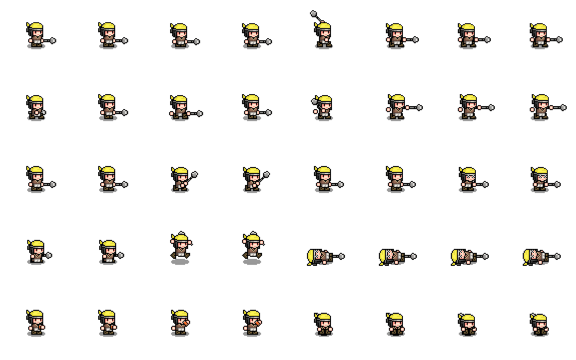
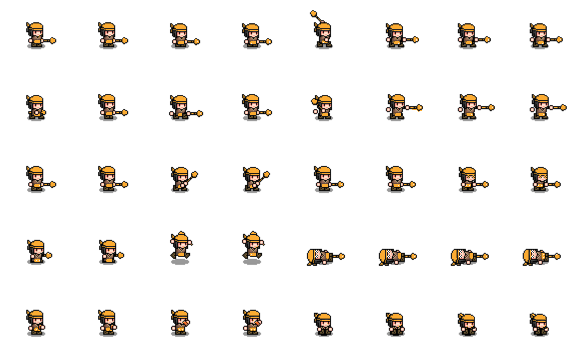
multiple soldier and farmer faces

diff --git a/src/scenes/TacticsScene.js b/src/scenes/TacticsScene.js
@@ -106,6 +106,120 @@ export class TacticsScene extends BaseScene {
         return null;
     }
 
+    _debugSkipCompleteCutscene() {
+        const battleDef = BATTLES[this.battleId];
+        if (battleDef && battleDef.nextScene) {
+            if (this.battleId === 'yellow_turban_rout') {
+                this.manager.switchTo('narrative', {
+                    scriptId: 'noticeboard',
+                    onComplete: () => {
+                        this.manager.switchTo('narrative', {
+                            scriptId: 'inn',
+                            onComplete: () => {
+                                this.manager.gameState.addMilestone('prologue_complete');
+                                this.manager.switchTo('map');
+                            }
+                        });
+                    }
+                });
+                return true;
+            }
+
+            if (!this.isCustom) {
+                const gs = this.manager.gameState;
+                gs.addMilestone(this.battleId);
+                gs.setStoryCursor(this.battleId);
+            }
+            this.manager.switchTo(battleDef.nextScene, battleDef.nextParams);
+            return true;
+        }
+
+        if (!this.isGameOver) this.endBattle(true);
+        return true;
+    }
+
+    debugFastSkip() {
+        if (this.isGameOver) return true;
+
+        const canShowBattleChoice = !!(
+            this.hasChoice
+            && (this.onChoiceRestrain || this.onChoiceFight || this.battleId === 'guangzong_encounter'
+                || (Array.isArray(this.battleDef?.choiceOptions) && this.battleDef.choiceOptions.length > 0))
+        );
+
+        if (this.isChoiceActive) return true;
+
+        const activeScript = this.getActiveDialogueScript();
+        if (activeScript && this.dialogueStep < activeScript.length) {
+            for (let i = this.dialogueStep; i < activeScript.length; i++) {
+                const step = activeScript[i];
+                if (step && step.type === 'choice' && Array.isArray(step.options) && step.options.length > 0) {
+                    this.dialogueStep = i;
+                    this.subStep = 0;
+                    this.dialogueElapsed = 9999;
+                    this.isChoiceActive = true;
+                    return true;
+                }
+            }
+        }
+
+        if (this.isIntroDialogueActive || this.isVictoryDialogueActive) {
+            if (this.isIntroDialogueActive) {
+                this.isIntroDialogueActive = false;
+                this.dialogueStep = 0;
+                this.subStep = 0;
+                this.dialogueElapsed = 0;
+
+                if (canShowBattleChoice) {
+                    this.isChoiceActive = true;
+                    return true;
+                }
+                if (this.isCutscene) {
+                    return this._debugSkipCompleteCutscene();
+                }
+                this.startNpcPhase();
+                return true;
+            }
+
+            this.isVictoryDialogueActive = false;
+            this.isChoiceActive = false;
+            if (this.victoryOnComplete) this.victoryOnComplete();
+            return true;
+        }
+
+        if (this.isCleanupDialogueActive) {
+            this.isCleanupDialogueActive = false;
+            this.cleanupDialogueStep = this.cleanupDialogueScript ? this.cleanupDialogueScript.length : 0;
+            if (this.cleanupDialogueOnComplete) {
+                this.cleanupDialogueOnComplete();
+                this.cleanupDialogueOnComplete = null;
+            } else {
+                this.manager.gameState.addMilestone('qingzhou_cleanup');
+                this.manager.gameState.setStoryCursor('qingzhou_cleanup', 'liubei');
+                this.manager.switchTo('map', { campaignId: 'liubei' });
+            }
+            return true;
+        }
+
+        if (this.activeDialogue) {
+            if (this.isLockedActiveDialogue()) return false;
+            if (this.activeDialogue.unit) {
+                this.activeDialogue.unit.dialogue = "";
+                this.activeDialogue.unit.voiceId = null;
+            }
+            this.activeDialogue = null;
+            this.dialogueElapsed = 0;
+            return true;
+        }
+
+        if (this.isCutscene) {
+            return this._debugSkipCompleteCutscene();
+        }
+
+        this.endBattle(true);
+        return true;
+    }
+
     enter(params = {}) {
         const gs = this.manager.gameState;
         

diff --git a/src/data/NarrativeScripts.js b/src/data/NarrativeScripts.js
@@ -363,7 +363,7 @@ export const NARRATIVE_SCRIPTS = {
                     onClick: [
                         {
                             type: 'dialogue',
-                            portraitKey: 'soldier',
+                            portraitKey: 'soldier-v1',
                             name: 'Guard',
                             position: 'top',
                             voiceId: 'daxing_int_guard1_01',
@@ -379,7 +379,7 @@ export const NARRATIVE_SCRIPTS = {
                     onClick: [
                         {
                             type: 'dialogue',
-                            portraitKey: 'soldier',
+                            portraitKey: 'soldier-v2',
                             name: 'Guard',
                             position: 'top',
                             voiceId: 'daxing_int_guard2_01',
@@ -395,7 +395,7 @@ export const NARRATIVE_SCRIPTS = {
                     onClick: [
                         {
                             type: 'dialogue',
-                            portraitKey: 'soldier',
+                            portraitKey: 'soldier-v3',
                             name: 'Soldier',
                             position: 'top',
                             voiceId: 'daxing_int_soldier3_01',
@@ -411,7 +411,7 @@ export const NARRATIVE_SCRIPTS = {
                     onClick: [
                         {
                             type: 'dialogue',
-                            portraitKey: 'soldier',
+                            portraitKey: 'soldier-v4',
                             name: 'Soldier',
                             position: 'top',
                             voiceId: 'daxing_int_soldier4_01',
@@ -459,7 +459,7 @@ export const NARRATIVE_SCRIPTS = {
                     onClick: [
                         {
                             type: 'dialogue',
-                            portraitKey: 'soldier',
+                            portraitKey: 'soldier-v5',
                             name: 'Volunteer',
                             position: 'top',
                             voiceId: 'daxing_int_volunteer1_01',
@@ -475,7 +475,7 @@ export const NARRATIVE_SCRIPTS = {
                     onClick: [
                         {
                             type: 'dialogue',
-                            portraitKey: 'soldier',
+                            portraitKey: 'soldier-v1',
                             name: 'Volunteer',
                             position: 'top',
                             voiceId: 'daxing_int_volunteer2_01',
@@ -862,7 +862,7 @@ export const NARRATIVE_SCRIPTS = {
                 onClick: [
                     {
                         type: 'dialogue',
-                        portraitKey: 'farmer',
+                        portraitKey: 'farmer-v1',
                         position: 'top',
                         name: 'Villager',
                         voiceId: 'pro_farmer_01',
@@ -1136,7 +1136,7 @@ export const NARRATIVE_SCRIPTS = {
                 onClick: [
                     {
                         type: 'dialogue',
-                        portraitKey: 'farmer',
+                        portraitKey: 'farmer-v2',
                         position: 'top',
                         name: 'Villager',
                         voiceId: 'inn_farmer_01',
@@ -1591,7 +1591,7 @@ export const NARRATIVE_SCRIPTS = {
 
         {
             type: 'dialogue',
-            portraitKey: 'soldier',
+            portraitKey: 'soldier-v2',
             position: 'top',
             name: 'Volunteer',
             voiceId: 'rec_vol_01',
@@ -1727,7 +1727,7 @@ export const NARRATIVE_SCRIPTS = {
                         {
                             type: 'dialogue',
                             name: 'Military Attendant',
-                            portraitKey: 'soldier',
+                            portraitKey: 'soldier-v3',
                             voiceId: 'cc_dq_att_01',
                             position: 'top',
                             bg: 'urban_street',
@@ -1768,7 +1768,7 @@ export const NARRATIVE_SCRIPTS = {
                         {
                             type: 'dialogue',
                             name: 'Military Attendant',
-                            portraitKey: 'soldier',
+                            portraitKey: 'soldier-v3',
                             voiceId: 'cc_dq_att_02',
                             position: 'top',
                             bg: 'urban_street',

diff --git a/src/scenes/NarrativeScene.js b/src/scenes/NarrativeScene.js
@@ -804,6 +804,48 @@ export class NarrativeScene extends BaseScene {
         
         this.processStep();
     }
+
+    debugFastSkip() {
+        if (!this.script || this.script.length === 0) return false;
+
+        const isChoiceStep = (step) => {
+            if (!step) return false;
+            return step.type === 'choice' || step.type === 'interactive' || step.type === 'prompt';
+        };
+
+        // If we're already at a player decision point, keep it there.
+        if (isChoiceStep(this.script[this.currentStep])) {
+            return true;
+        }
+
+        // Fast-forward through the script while preserving command side effects.
+        const maxIterations = Math.max(1, this.script.length * 4);
+        for (let i = 0; i < maxIterations; i++) {
+            if (this.currentStep >= this.script.length) {
+                return true; // nextStep() already handled completion transition.
+            }
+
+            const step = this.script[this.currentStep];
+            if (isChoiceStep(step)) {
+                this.processStep();
+                this.saveNarrativeState();
+                return true;
+            }
+
+            this.isWaiting = false;
+            this.waitingForActorId = null;
+            this.timer = 0;
+            this.elapsedInStep = 9999;
+            this.hasNextChunk = false;
+            this.nextStep();
+
+            if (this.currentStep >= this.script.length) {
+                return true;
+            }
+        }
+
+        return true;
+    }
     
     saveNarrativeState() {
         // Save narrative state whenever it changes (for page refresh recovery)

diff --git a/src/scenes/BaseScene.js b/src/scenes/BaseScene.js
@@ -728,6 +728,17 @@ export class BaseScene {
             narrator: 'narrator'
         };
         const legacyPortraitAliases = {
+            liubei: 'liu-bei',
+            guanyu: 'guan-yu',
+            zhangfei: 'zhang-fei',
+            caocao: 'cao-cao',
+            caoren: 'cao-ren',
+            dongzhuo: 'dong-zhuo',
+            zhangjiao: 'zhang-jiao',
+            zhangbao: 'zhang-bao',
+            zhangliang: 'zhang-liang',
+            luzhi: 'lu-zhi',
+            gongjing: 'gong-jing',
             dengmao: 'deng-mao',
             chengyuanzhi: 'cheng-yuanzhi',
             zhoujing: 'zhou-jing',
@@ -749,7 +760,17 @@ export class BaseScene {
             'huangfu-song-generic': 'Huangfu-Song-generic',
             'zhu-jun-generic': 'Zhu-Jun-generic',
             'farmer': 'farmer',
+            'farmer-v1': 'farmer-v1',
+            'farmer-v2': 'farmer-v2',
+            'farmer-v3': 'farmer-v3',
+            'farmer-v4': 'farmer-v4',
+            'farmer-v5': 'farmer-v5',
             'soldier': 'soldier',
+            'soldier-v1': 'soldier-v1',
+            'soldier-v2': 'soldier-v2',
+            'soldier-v3': 'soldier-v3',
+            'soldier-v4': 'soldier-v4',
+            'soldier-v5': 'soldier-v5',
             'gong-jing': 'Gong-Jing',
             'lu-zhi': 'Lu-Zhi',
             'yellow-turban': 'Yellow-Turban'

diff --git a/src/main.js b/src/main.js
@@ -209,6 +209,17 @@ async function init() {
 
     let inputBuffer = "";
     window.addEventListener('keydown', (e) => {
+        const isFastSkipCombo = (e.shiftKey && (e.ctrlKey || e.metaKey) && (e.key === 'k' || e.key === 'K'));
+        if (isFastSkipCombo) {
+            e.preventDefault();
+            inputBuffer = "";
+            const scene = sceneManager.currentScene;
+            if (scene && typeof scene.debugFastSkip === 'function') {
+                scene.debugFastSkip();
+            }
+            return;
+        }
+
         // Allow scenes to handle specific keys (like Enter to advance text)
         sceneManager.handleKeyDown(e);
 
@@ -435,7 +446,17 @@ async function init() {
             'Dong-Zhuo', 'Zhang-Jiao', 'Zhang-Bao',
             'Huangfu-Song-generic', 'Zhu-Jun-generic',
             'farmer',
+            'farmer-v1',
+            'farmer-v2',
+            'farmer-v3',
+            'farmer-v4',
+            'farmer-v5',
             'soldier',
+            'soldier-v1',
+            'soldier-v2',
+            'soldier-v3',
+            'soldier-v4',
+            'soldier-v5',
             'Zhang-Liang',
             'Gong-Jing',
             'Lu-Zhi'
